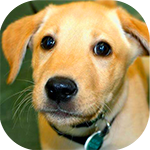
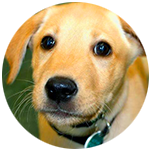
put back round buttons and square slideshow

Changed region(s): [[0.0, 0.0, 1.0, 1.0]]

diff --git a/style.css b/style.css
@@ -469,10 +469,8 @@ height: 510px
 }
 
 .slideshow-container img{
-  border-radius: 20px;
-  overflow: hidden;
-  /*border-top: 1px solid #222222;
-  border-bottom: 1px solid #222222;*/
+  border-top: 1px solid #222222;
+  border-bottom: 1px solid #222222;
 }
 
 .prev, .next {
